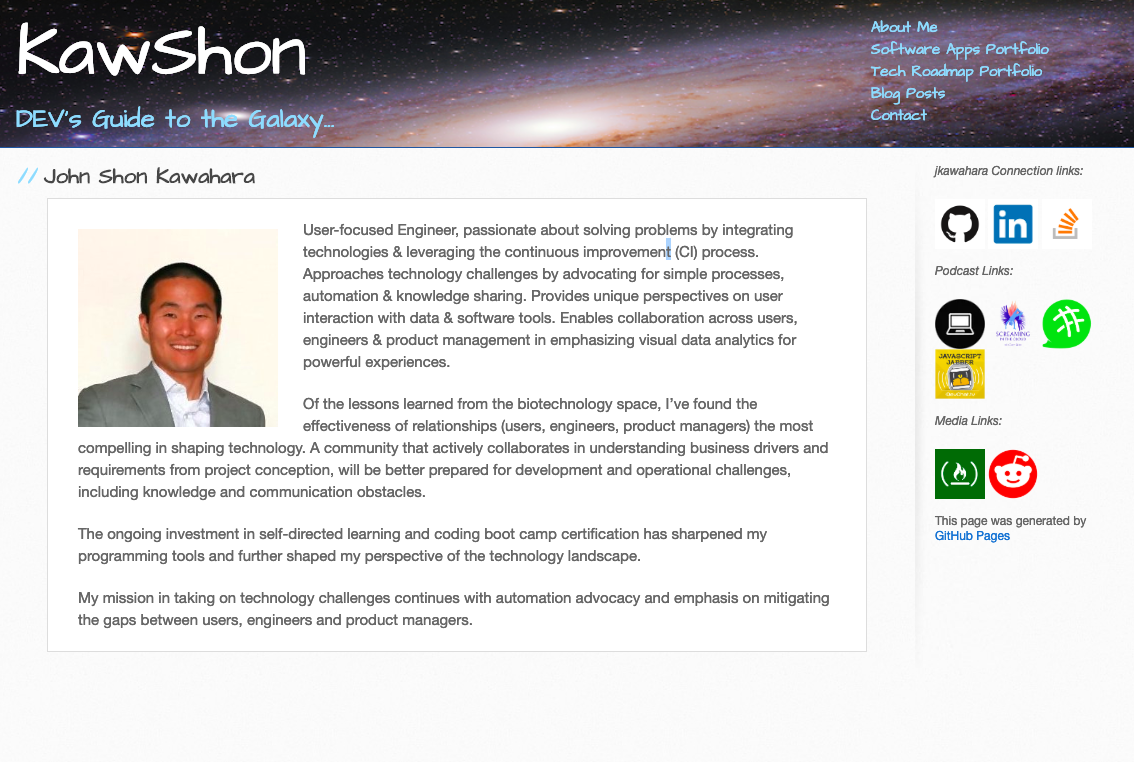
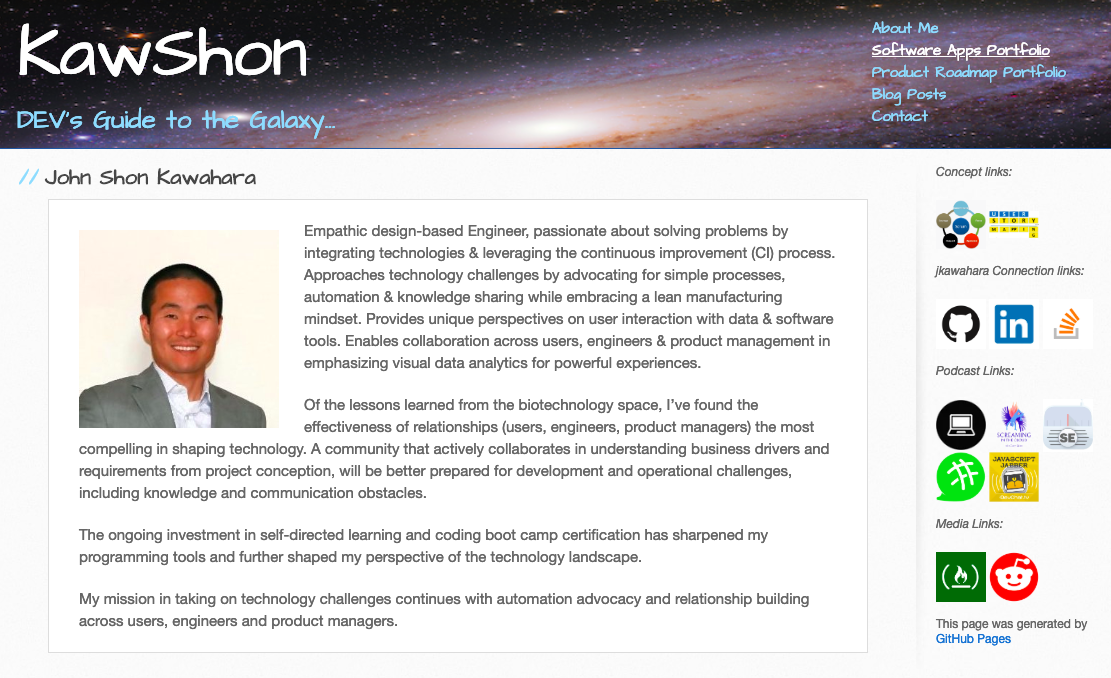
Update README

diff --git a/README.md b/README.md
@@ -1,4 +1,4 @@
-# Live Link to [KawShon DEV's Guide to the Galaxy](https://jkawahara.github.io/kawshon/)
+# Live Link to [KawShon DEV's Guide to the Galaxy](https://jkawahara.github.io)
 ### 1. Why / Background
   * KawShon DEV's Guide to the Galaxy is a static website for presenting a portfolio of projects and blogging posts.
  ### 2. What / Objectives / User Stories
@@ -8,7 +8,8 @@
     * Set up View templates
       * About Me
       * Blog Posts
-      * Portfolio
+      * Software Apps Portfolio
+      * Product Roadmap Portfolio
       * Contact Me
  ### 3. How / Design Description
   * The scope of the project fits ell into [Agile methodology with Scrum and Kanban frameworks](https://en.wikipedia.org/wiki/Agile_software_development). Due to limited scope and non-group assignment, GitHub's built-in tools were not used to support project execution:
@@ -19,7 +20,7 @@
       * Install The Architect theme as starting basis for pages
       * View Setup (*.html, _layouts, _includes, _posts)
         * For each page (*.html), use Front Matter to predefine variables (layout, title, heading) and inherit specific layout
-          * _layouts: index, software, technology, blog, contact.html inherit from page, post.html, which in turn, inherit from default.html
+          * _layouts: index, software, product, blog, contact.html inherit from page, post.html, which in turn, inherit from default.html
           * _includes: links, navigation.html included in default.html 
           * _data: navigation, portfolio-software, portfolio-tech, sidebar.yml custom data is accessed by links, navigation, index.html
         * For each page (*.html), use Liquid to process templates:
@@ -28,15 +29,15 @@
         * For contact.html, use action attribute within form element to connect to Formspree email contact forms
         * About Me ![aboutme.png](/assets/images/aboutme.png "aboutme")
         * Software Apps ![software.png](/assets/images/software.png "softwareapps")
-        * Tech Roadmap ![tech.png](/assets/images/tech.png "techroadmap")
+        * Product Roadmap ![product.png](/assets/images/product.png "productroadmap")
         * Blog Posts ![blogs.png](/assets/images/blogs.png "blogposts")
-        * Contact ![contactme.png](/assets/images/contactme.png "contact")
+        * Contact Me ![contactme.png](/assets/images/contactme.png "contactme")
   * Prerequisites for Development:
     * MacBook Air (Intel Core i7, 2.2 GHz, 1 Processor, 2 Cores, 8GB)
     * 64 bit operating system 
     * git version 2.18.0
     * Visual Studio Code Version 1.29.1
-    * [GitHub kawshon](https://github.com/jkawahara/kawshon)
+    * [GitHub Repo](https://github.com/jkawahara/jkawahara.github.io)
     * Chrome Version 70.0.3538.110 (Official Build) (64-bit)
   * Built with:
     * Client-side [Jekyll](https://jekyllrb.com/):
@@ -86,7 +87,7 @@
   * Running the tests:
     * Unit testing & integration testing was informally executed
   * Deployment:
-    * Deployed on [GitHub Pages](https://jkawahara.github.io/kawshon/)
+    * Deployed on [GitHub Pages](https://jkawahara.github.io)
  ## Versioning
   * For the versions available, see the tags on this repository.
  ## Authors
